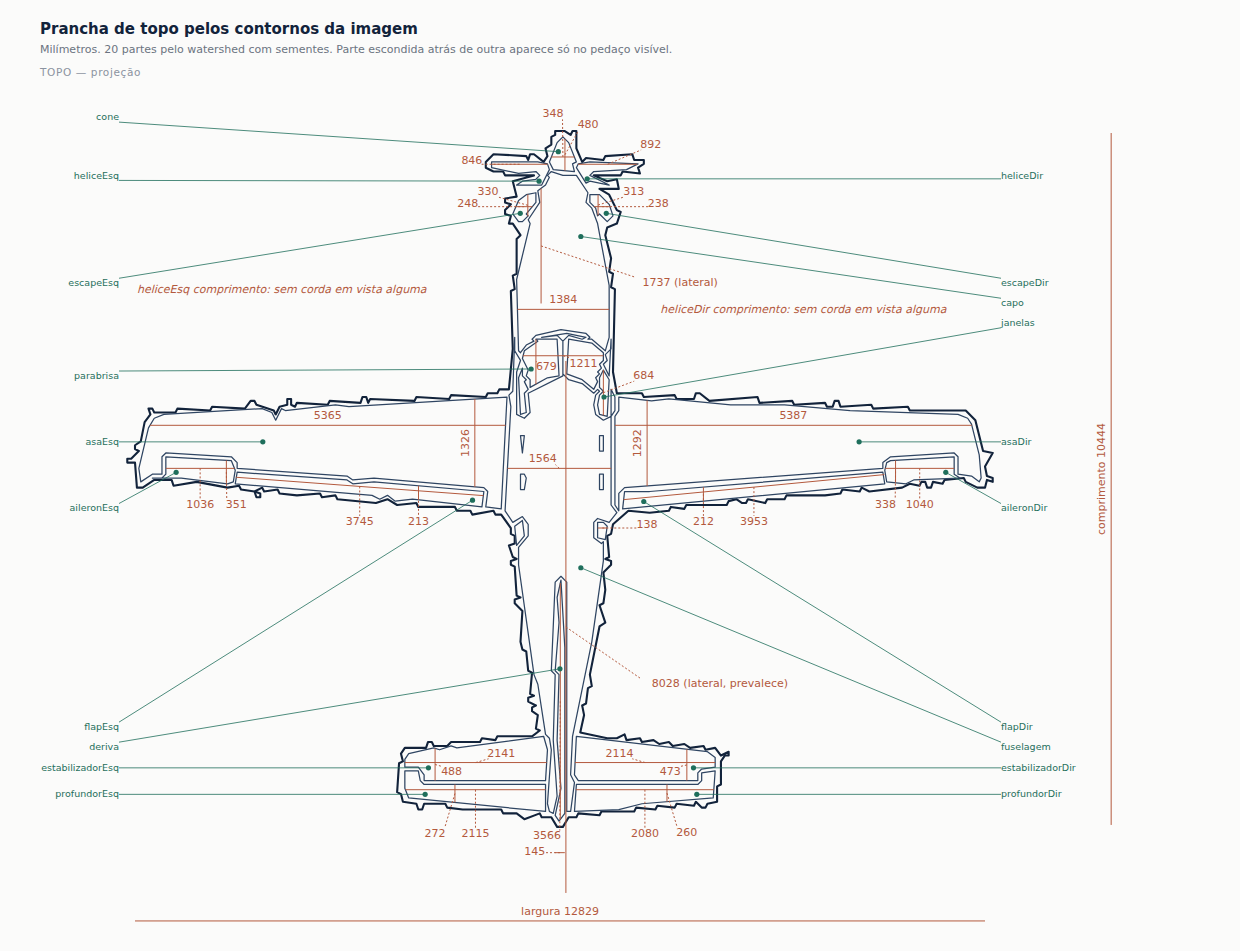
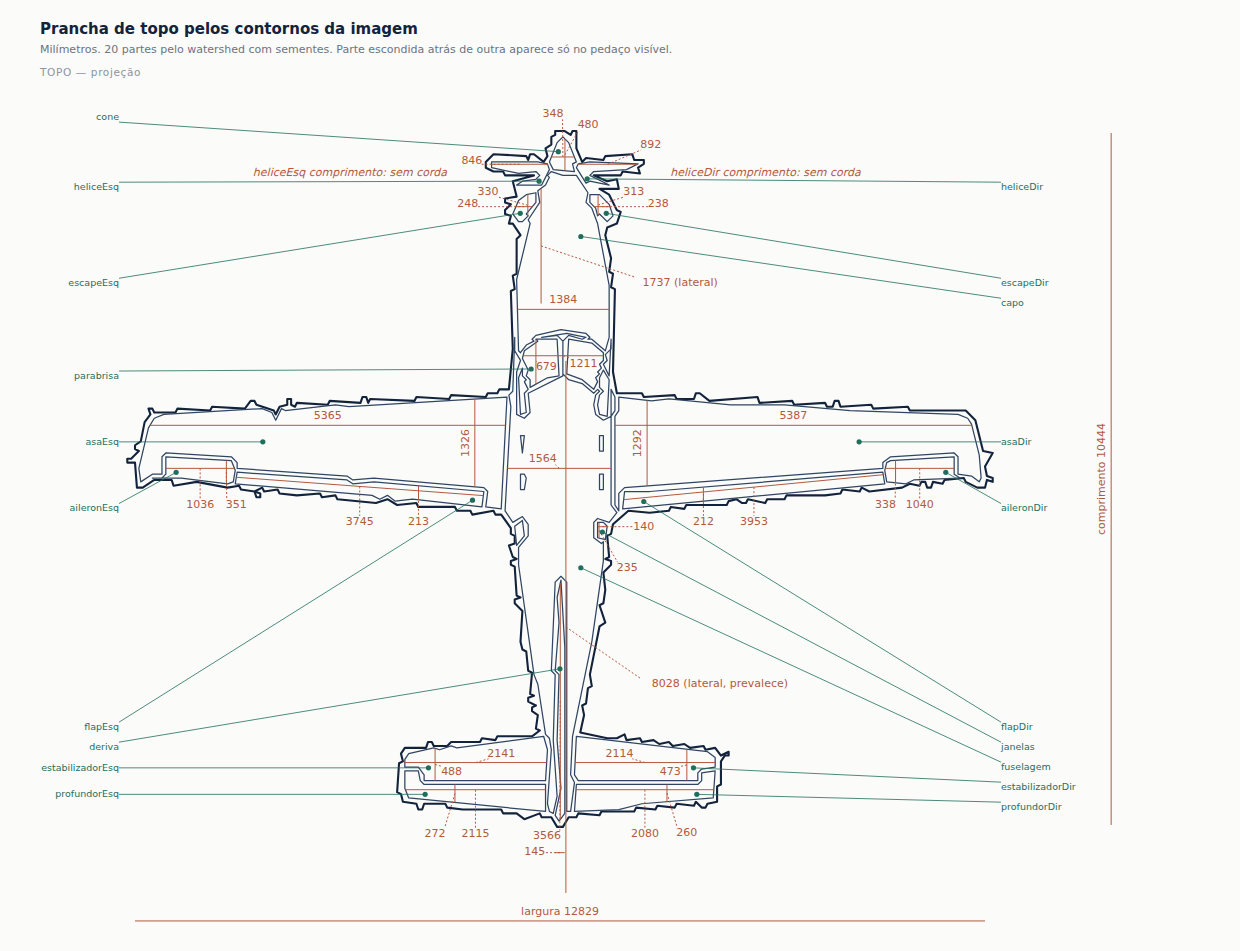
Prancha de topo pronta para a rodada 3, atritos 7 e 8
Claude-Session: https://claude.ai/code/session_015i1y8CrgTgEfwGG2HEX8g8

diff --git a/docs/mecanifica/banco-de-provas/aviao-2026-10-11/referencias/topo.prancha.pacote/roteiro.md b/docs/mecanifica/banco-de-provas/aviao-2026-10-11/referencias/topo.prancha.pacote/roteiro.md
@@ -16,9 +16,9 @@ Abra o alvo (/home/user/nos-mecanifica/docs/mecanifica/banco-de-provas/aviao-202
 
 ## Etapa 3 — heliceEsq
 
-- cotas esperadas: largura (medida aqui) e comprimento (não medível: sem corda em vista alguma). Cobre só estas duas; cota em falta é `cota` com sentido `faltando`.
+- cotas esperadas: largura (medida aqui) e comprimento (não medível: sem corda). Cobre só estas duas; cota em falta é `cota` com sentido `faltando`.
 - largura: cota 846. A linha atravessa a seção que o modelador precisa, dentro de heliceEsq?
-- comprimento: EM FALTA: só há a nota "sem corda em vista alguma", que não dá número. A linha mede heliceEsq de ponta a ponta na vertical, sem pegar parte vizinha?
+- comprimento: EM FALTA: só há a nota "sem corda", que não dá número. A linha mede heliceEsq de ponta a ponta na vertical, sem pegar parte vizinha?
 - nome: "heliceEsq" fica na coluna da esquerda. A chamada termina dentro de heliceEsq, e não numa vizinha?
 - linhas livres: a chamada e as cotas de heliceEsq não cruzam outra linha nem passam sobre número ou nome?
 
@@ -88,9 +88,9 @@ Abra o alvo (/home/user/nos-mecanifica/docs/mecanifica/banco-de-provas/aviao-202
 
 ## Etapa 12 — heliceDir
 
-- cotas esperadas: largura (medida aqui) e comprimento (não medível: sem corda em vista alguma). Cobre só estas duas; cota em falta é `cota` com sentido `faltando`.
+- cotas esperadas: largura (medida aqui) e comprimento (não medível: sem corda). Cobre só estas duas; cota em falta é `cota` com sentido `faltando`.
 - largura: cota 892. A linha atravessa a seção que o modelador precisa, dentro de heliceDir?
-- comprimento: EM FALTA: só há a nota "sem corda em vista alguma", que não dá número. A linha mede heliceDir de ponta a ponta na vertical, sem pegar parte vizinha?
+- comprimento: EM FALTA: só há a nota "sem corda", que não dá número. A linha mede heliceDir de ponta a ponta na vertical, sem pegar parte vizinha?
 - nome: "heliceDir" fica na coluna da direita. A chamada termina dentro de heliceDir, e não numa vizinha?
 - linhas livres: a chamada e as cotas de heliceDir não cruzam outra linha nem passam sobre número ou nome?
 
@@ -110,15 +110,7 @@ Abra o alvo (/home/user/nos-mecanifica/docs/mecanifica/banco-de-provas/aviao-202
 - nome: "capo" fica na coluna da direita. A chamada termina dentro de capo, e não numa vizinha?
 - linhas livres: a chamada e as cotas de capo não cruzam outra linha nem passam sobre número ou nome?
 
-## Etapa 15 — janelas
-
-- cotas esperadas: largura (medida aqui) e comprimento (medida aqui). Cobre só estas duas; cota em falta é `cota` com sentido `faltando`.
-- largura: cota 138. A linha atravessa a seção que o modelador precisa, dentro de janelas?
-- comprimento: cota 684. A linha mede janelas de ponta a ponta na vertical, sem pegar parte vizinha?
-- nome: "janelas" fica na coluna da direita. A chamada termina dentro de janelas, e não numa vizinha?
-- linhas livres: a chamada e as cotas de janelas não cruzam outra linha nem passam sobre número ou nome?
-
-## Etapa 16 — asaDir
+## Etapa 15 — asaDir
 
 - cotas esperadas: largura (medida aqui) e comprimento (medida aqui). Cobre só estas duas; cota em falta é `cota` com sentido `faltando`.
 - largura: cota 5387. A linha atravessa a seção que o modelador precisa, dentro de asaDir?
@@ -126,7 +118,7 @@ Abra o alvo (/home/user/nos-mecanifica/docs/mecanifica/banco-de-provas/aviao-202
 - nome: "asaDir" fica na coluna da direita. A chamada termina dentro de asaDir, e não numa vizinha?
 - linhas livres: a chamada e as cotas de asaDir não cruzam outra linha nem passam sobre número ou nome?
 
-## Etapa 17 — aileronDir
+## Etapa 16 — aileronDir
 
 - cotas esperadas: largura (medida aqui) e comprimento (medida aqui). Cobre só estas duas; cota em falta é `cota` com sentido `faltando`.
 - largura: cota 1040. A linha atravessa a seção que o modelador precisa, dentro de aileronDir?
@@ -134,13 +126,21 @@ Abra o alvo (/home/user/nos-mecanifica/docs/mecanifica/banco-de-provas/aviao-202
 - nome: "aileronDir" fica na coluna da direita. A chamada termina dentro de aileronDir, e não numa vizinha?
 - linhas livres: a chamada e as cotas de aileronDir não cruzam outra linha nem passam sobre número ou nome?
 
-## Etapa 18 — flapDir
+## Etapa 17 — flapDir
 
 - cotas esperadas: largura (medida aqui) e comprimento (medida aqui). Cobre só estas duas; cota em falta é `cota` com sentido `faltando`.
 - largura: cota 3953. A linha atravessa a seção que o modelador precisa, dentro de flapDir?
 - comprimento: cota 212. A linha mede flapDir de ponta a ponta na vertical, sem pegar parte vizinha?
 - nome: "flapDir" fica na coluna da direita. A chamada termina dentro de flapDir, e não numa vizinha?
 - linhas livres: a chamada e as cotas de flapDir não cruzam outra linha nem passam sobre número ou nome?
+
+## Etapa 18 — janelas
+
+- cotas esperadas: largura (medida aqui) e comprimento (medida aqui). Cobre só estas duas; cota em falta é `cota` com sentido `faltando`.
+- largura: cota 140. A linha atravessa a seção que o modelador precisa, dentro de janelas?
+- comprimento: cota 235. A linha mede janelas de ponta a ponta na vertical, sem pegar parte vizinha?
+- nome: "janelas" fica na coluna da direita. A chamada termina dentro de janelas, e não numa vizinha?
+- linhas livres: a chamada e as cotas de janelas não cruzam outra linha nem passam sobre número ou nome?
 
 ## Etapa 19 — fuselagem
 

diff --git a/docs/mecanifica/banco-de-provas/aviao-2026-10-11/ATRITOS.md b/docs/mecanifica/banco-de-provas/aviao-2026-10-11/ATRITOS.md
@@ -108,3 +108,23 @@ outras partes ou como cota geral. O processo pegou o sintoma pelo crítico; falt
 ```bash
 grep -n "extens" tools/mecanifica/prancha/prancha.mjs tools/mecanifica/prancha/prancha-dos-contornos.mjs
 ```
+
+## 7. Cota externa não pode passar da coluna de nomes
+
+Na prancha de topo, o comprimento da fuselagem vem da lateral (8028 mm, por
+decisão da pessoa) e não cabe dentro da silhueta do topo. Como cota externa,
+paralela à de comprimento geral, ela seria cruzada pela chamada de todos os
+nomes daquele lado, porque a coluna de nomes fica sempre além de qualquer cota.
+O desenhista deixou a linha dentro do desenho, começando sob o para-brisa e
+passando da cauda, e o crítico a reprovou.
+
+## 8. Parte numa fenda de outra não conta como contida
+
+Na prancha de topo, o contorno da fuselagem passa em volta da deriva por uma
+fenda de uns 15 px e não a contém. A regra do atrito 5 não se aplica, e
+qualquer cota da deriva colide com a fuselagem; os números ficaram abaixo da
+cauda, fora do objeto, e o crítico os reprovou.
+
+```bash
+npm run contorno:prancha -- docs/mecanifica/banco-de-provas/aviao-2026-10-11/referencias/topo.contornos.json 2>&1 | grep -i "deriva\|fuselagem"
+```
